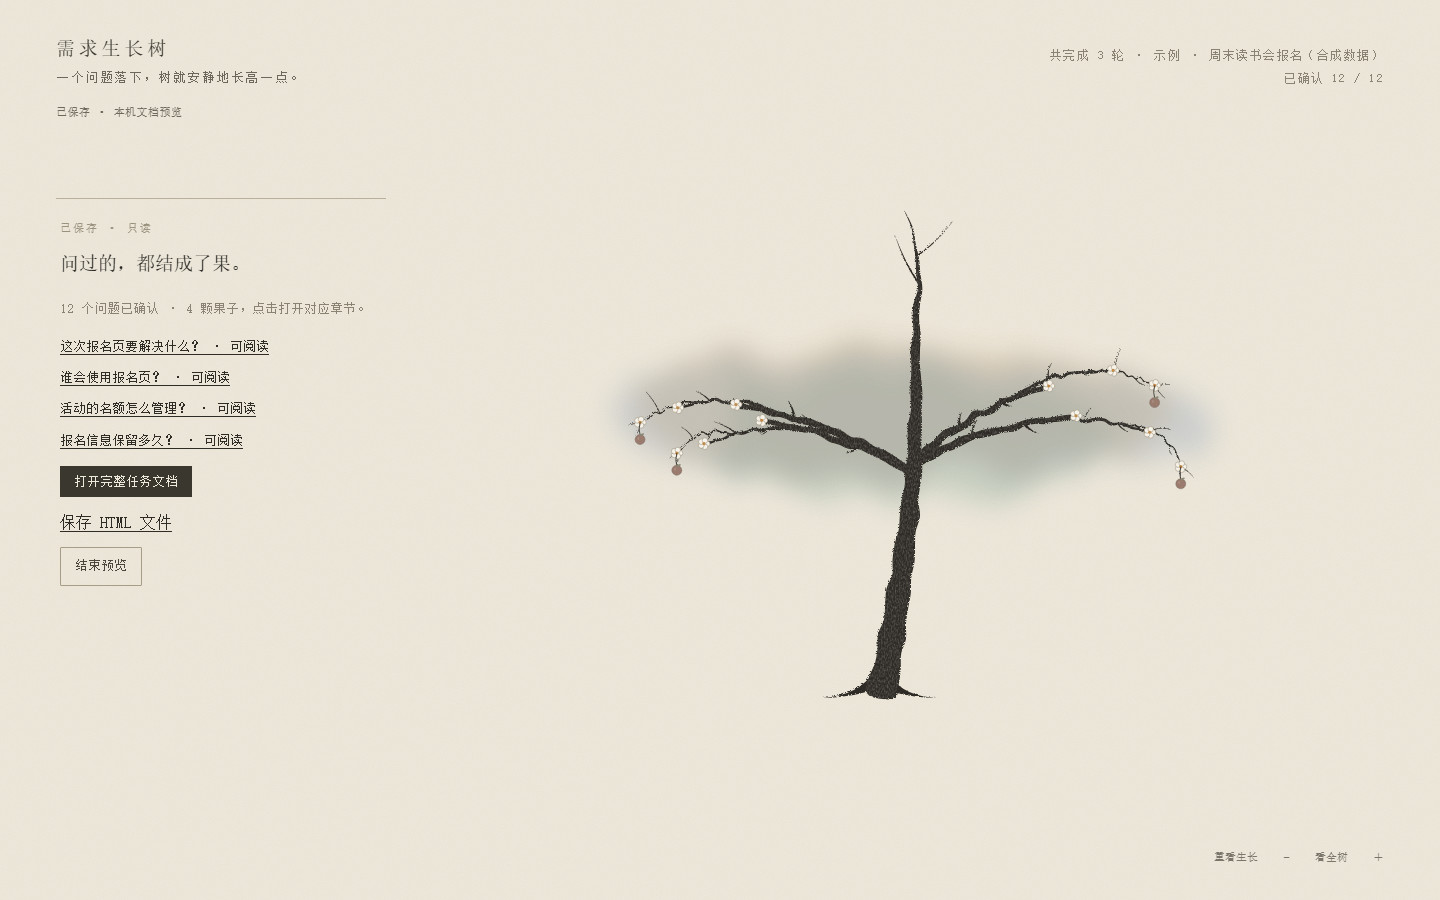
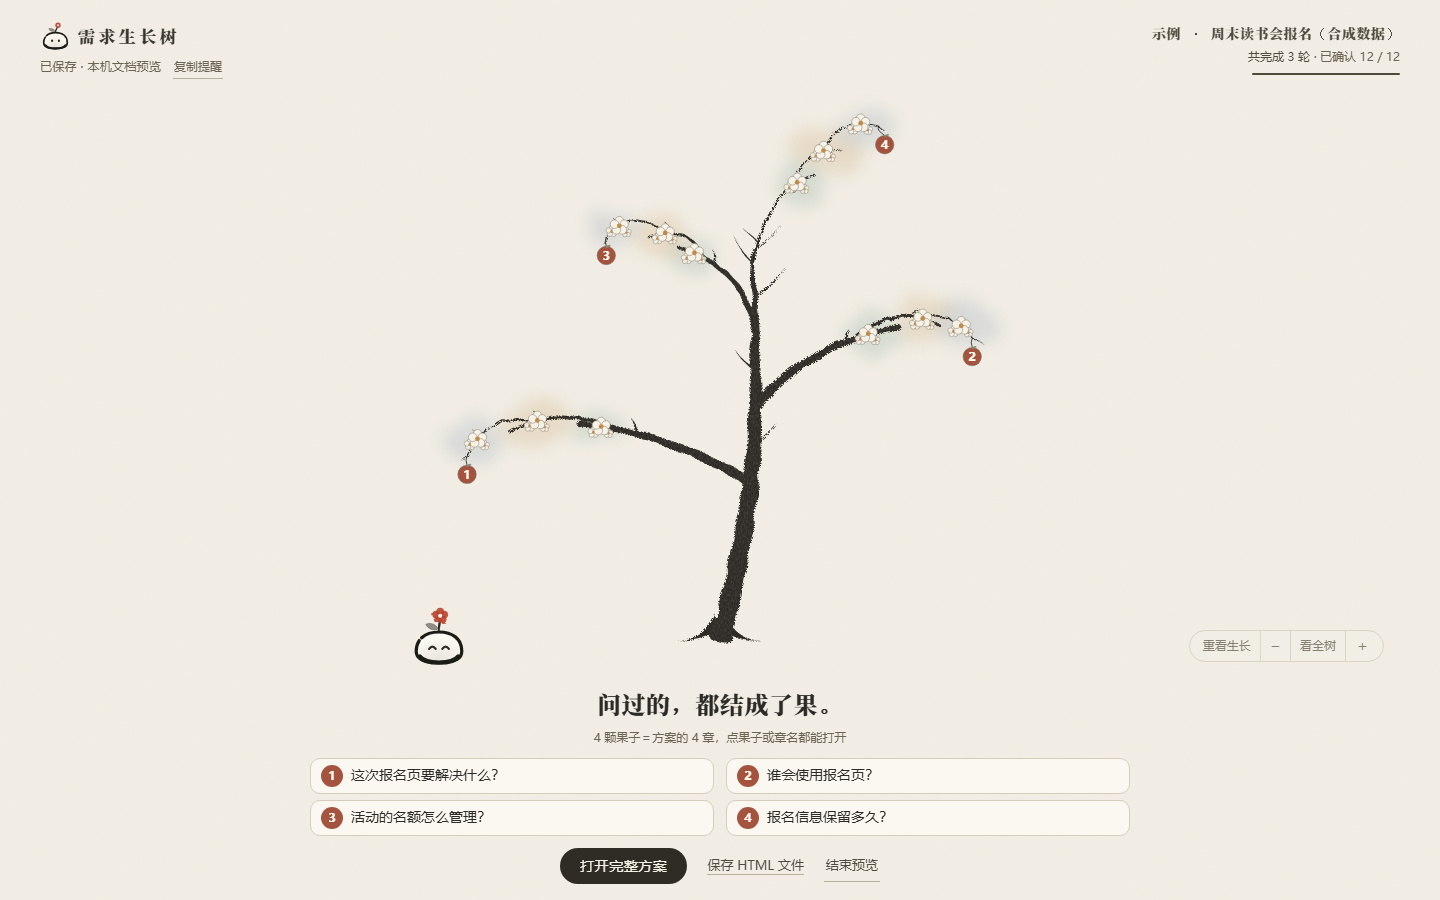
docs: release 0.3.0 and rewrite the README for the new interface
The README still described the v0.2 page: the question at the top, two
seal clicks per round, drafts lost on refresh, a "pause" banner, and only
Codex as tested. It now walks through the mascot asking beside each bud,
one-tap answers with a reply, the note box, deferral, "没看懂", the
five-second basket delivery, "够了", and the sleeping mascot that copies a
resume reminder. It explains what saving produces, including the readable
plan page and the grow-loop handoff manifest with its approval gate for
irreversible actions, states which assistants the simulated user has run
on and that the new interface has not yet been rerun on them, and shows
how to run the browser tests and the simulated user. Both screenshots come
from synthetic data. A stray paragraph after the license is gone.

diff --git a/README.md b/README.md
@@ -1,62 +1,54 @@
 # grow-me · 让需求长成方案
 
-把逐轮澄清搬到本机网页：回答一题，树上开一朵花；追问沿着依赖长出枝条；修改上游答案，相关问题变成需要复核的黄叶；保存后，果子通向文档里的主题章节。
+把逐轮澄清搬到本机网页：小精灵「圆麻薯」停在一颗芽旁边问你一个问题，你答完，芽开成花，它接一句话；一轮答完，它提着篮子把答案送给 AI；追问沿着依赖长出新枝。保存后，每个话题结成一颗果子，点开就是方案里对应的一章。
 
-**V2 试用版 · v0.2.0-alpha.3 · MIT 开源。** 使用 v2 访谈协议。旧 v1 访谈在此版本中只读，继续答题请使用 [V1 试用版](https://github.com/Trunks820/grow-me/releases/tag/v0.1.0-alpha.1)；不会自动迁移。
+**v0.3.0 · MIT 开源。** 使用 v2 访谈协议，v0.2 答了一半的访谈可以直接接着答。旧 v1 访谈只读，继续答题请用 [V1 试用版](https://github.com/Trunks820/grow-me/releases/tag/v0.1.0-alpha.1)。
 
-[下载 V2 ZIP](https://github.com/Trunks820/grow-me/releases/download/v0.2.0-alpha.3/grow-me-v0.2.0-alpha.3.zip) · [版本说明](https://github.com/Trunks820/grow-me/releases/tag/v0.2.0-alpha.3) · [SHA-256 校验](https://github.com/Trunks820/grow-me/releases/download/v0.2.0-alpha.3/grow-me-v0.2.0-alpha.3.sha256)
+[下载 v0.3.0 ZIP](https://github.com/Trunks820/grow-me/archive/refs/tags/v0.3.0.zip) · [全部版本](https://github.com/Trunks820/grow-me/releases)
 
-界面与接口回归已通过，跨助手真实闭环和模型生成速度仍在验收中。欢迎带着真实需求试用并反馈等待时间。
-
-![需求生长树示例：合成读书会需求，非真实用户数据](docs/images/tree-preview.png)
+![圆麻薯停在芽旁提问：合成示例，非真实用户数据](docs/images/ask-preview.png)
 
 ## 怎么用
 
-运行 grow-me 只需 Node.js 22+，以及能读取 `SKILL.md`、运行终端和短查询的 AI 编码助手。下载 ZIP 后解压出 `grow-me` 目录即可；通过克隆安装时另需 Git。当前工作流在 Codex 中实测；其他助手需要具备相同能力，兼容性待验证。
+需要 Node.js 22+，以及一个能读取 `SKILL.md`、运行终端命令的 AI 编码助手。保存方案不再需要 Python。
 
 ### 跟 AI 一起梳理一个真实需求
 
-下载 ZIP 并解压，或通过 Git 克隆：
+下载 ZIP 解压，或者用 Git 克隆：
 
 ```sh
 git clone https://github.com/Trunks820/grow-me.git
 ```
 
-在 AI 助手里发送，把路径换成你的克隆位置：
+在 AI 助手里发送，把路径换成你的位置：
 
 ```text
 读取 /你的路径/grow-me/SKILL.md，使用 grow-me 帮我澄清下面的需求。
 启动本机网页让我逐题回答；收到整轮答案后继续追问。
-没有必要的新问题时进入保存阶段，保存后生成三视图 HTML。
+没有必要的新问题时进入保存阶段，保存后生成方案网页。
 
 需求：……
 ```
 
-如果助手支持 `.agents/skills` 自动发现，可以将仓库克隆到 `~/.agents/skills/grow-me`；如果没有自动发现，直接读取上面的文件即可。Windows PowerShell 可用：
+想让助手自动发现这个技能，就克隆到它的技能目录：
 
 ```powershell
+# 支持 .agents/skills 的助手（Codex 等），Windows PowerShell
 git clone https://github.com/Trunks820/grow-me.git "$env:USERPROFILE/.agents/skills/grow-me"
-```
 
-Claude Code 使用自己的全局技能目录 `~/.claude/skills/`。如果使用 CC，请改用下面的安装位置，然后在 CC 中输入 `/grow-me`：
-
-```powershell
-# Windows PowerShell
+# Claude Code，装好后在 CC 里输入 /grow-me
 git clone https://github.com/Trunks820/grow-me.git "$env:USERPROFILE/.claude/skills/grow-me"
 ```
 
-```sh
-# macOS / Linux
-git clone https://github.com/Trunks820/grow-me.git "$HOME/.claude/skills/grow-me"
-```
+macOS / Linux 把路径换成 `$HOME/.agents/skills/grow-me` 或 `$HOME/.claude/skills/grow-me`。已经装在 `.agents/skills/grow-me` 的，也可以从 `.claude/skills/grow-me` 建目录链接，两边共用一份。新技能没出现时，重开一次会话。
 
-已经安装到 `.agents/skills/grow-me` 时，也可以从 `.claude/skills/grow-me` 建立目录链接，复用同一份技能；保留已有目录，不直接覆盖。如果当前 CC 会话还没显示新技能，重新打开会话再试。技能能被发现不代表已通过跨助手完整访谈验收。
+### AI 停了怎么办
 
-本机服务不自带模型、不需要在仓库配置模型 API Key。**当前 AI 对话负责出题和写文档，网页负责答题与展示。** 让原对话保持运行；对话中断后，点击网页「复制提醒」并粘回原对话；只含会话编号、轮次和服务地址。服务退出但 tree.json 仍在时，助手按原文件重启，不重新开访谈。答案会交给所用 AI 助手处理，本机服务本身不调用外部模型。
+本机服务不带模型、不需要 API Key：**AI 对话负责出题和写方案，网页负责答题和展示。** 你的答案只交给你正在用的 AI 助手。
 
-如果 AI 那边停了，回聊天窗口发一句「继续」即可续上，已保存的答案不会丢；页面在等待 AI 时会提示你使用「复制提醒」。
-
-已安装 `project-requirement-writer` 时可沿用它；没有安装也可使用仓库内置的 [writer 指引](references/writer-guide.md)、HTML 模板与校验工具，完成同样的三视图交付。
+- 能在后台等待的助手（如 Claude Code）会用等待命令：你一提交，它就被叫醒。做不到的助手每约 10 秒查一次。
+- AI 出题、写方案期间，页面靠心跳和工作记录判断它还在，不会误报暂停。
+- 真停了，圆麻薯会睡着、冒 zzz。点它会复制一段续接提醒，粘回原来的聊天窗口，喊一声"继续"就能接上。答过的题都存在 `tree.json` 里，不会丢。
 
 ### 先看看长什么样
 
@@ -65,77 +57,84 @@ cd grow-me
 npm run demo
 ```
 
-打开终端打印的本机网址。此命令只展示**合成的读书会需求**：可以回放生长、回看花朵、点击四颗果子打开对应章节；不会调用 AI，也不代表真实模型的回答或生成耗时。点「结束预览」或在终端按 Ctrl+C 退出。若系统开启「减少动态效果」，生长、果子和回放会直接显示最终形态。
+打开终端打印的本机网址。这是一份**合成的读书会需求**，只读：可以重看生长、点花回看、点果子打开对应章节。不调用 AI，也不代表真实模型的速度。点「结束预览」或按 Ctrl+C 退出。不用先 `npm install`。
 
-生产服务没有 npm 运行时依赖，无需先执行 `npm install`。完整访谈请通过 `SKILL.md` 启动，demo 仅用于预览。
+![保存后：每个话题结成一颗编号果子，对应方案的一章（合成示例）](docs/images/tree-preview.png)
 
-## 已实现
+## 答题时能做什么
 
-- 点可见花苞答题：题干在顶部，短选项在花旁气泡，长内容使用下方宣纸条。点「就这么定」原地开花；再点花默认只读，点「改」才编辑。
-- 逐题确认仍是本地草稿，整轮汇总后手动提交；未提交草稿刷新会丢失，离开前会提醒。
-- `tree.json` 是唯一访谈数据源，所有写操作保留 revision 冲突检测。
-- 依赖追问从父枝曲线长出；同一份数据生成相同树形。
-- 修改答案后，所有下游依赖进入黄叶复核，逐题确认。
-- 等待时显示秒数；AI 查询正常时超过 60 秒提示可回看，超过 60 秒没有 AI 短查询就提示回聊天续接并高亮「复制提醒」。持续心跳不会压住提示；从未短查显示等待连接，服务断线自动重连。
-- 每条根话题对应一颗果子；章节完成并通过来源校验后即可先读，其余章节标记「生成中」。
-- 每章写完立即发布，再写下一章；记录每章首次发布时间，批量发布多章会明确警告。
-- 保存前先预读 writer 规则与模板；新题标明所属章节，旧数据缺该字段仍可组装，正文依据用户保存后冻结的答案生成。
-- 文档包含「设计方案／开发清单／验收标准」三个视图，最终保存后访谈只读，文档失败可重试。
-- 桌面与窄屏布局、键盘操作、生长回放和减少动态效果支持。
+- **点一下就定**：单选点选项即确认，芽开花、麻薯接一句话（台词由 AI 出题时预写，没写就用备用句），然后去下一题。多选和填空点「好了」。
+- **补一句**：每题下面直接有输入框，想补充就写，不写也行。补充往往比选项更能改变方案。
+- **先待定**：拿不准就选「先待定，以后再说」。这题算交了，AI 不会追问，方案里会列进"还没定的"，不会写成你已确认。
+- **没看懂**：点「没看懂，换个说法」，可以写一句哪里没懂。AI 下一轮必须换个说法重问，不能原样再问。
+- **送答案**：一轮最后一题定下，麻薯提着篮子出发，5 秒后自动交给 AI。这 5 秒里点「等等，我再看看」就能回去改。
+- **够了，先出方案**：随时可以喊停。麻薯会先确认一句，没答的题记成待定。
+- **改上游答案**：受影响的下游题变成黄叶，逐题复核。
+- **刷新不丢**：点过的草稿存在这台电脑的浏览器里，刷新后恢复。
 
-- V2 支持多选与互斥「都不需要」，「为什么问这句」、推荐和可选补充默认收起；推荐有理由、从不预选，旧依据失效后隐藏。
-- 助手使用自动游标和约 10 秒一次的短查询，耗时工作独立发心跳，单次短查询网络期限最多 3 秒；端口与会话身份、revision 一起核对。
+手机上题目从底部拉起一张卡片。系统开启「减少动态效果」时，生长、飞行和开花都直接显示结果。
+
+## 保存后得到什么
+
+- **方案网页**：开头三个框写清现在到哪了、下一步、还有几件没定；然后是"这一版做什么"、按编号排好的开发清单、一张验收表。访谈原话收在每章末尾，编号和会话信息收在页底"记录信息"里。章节写完一章发布一章，先写完的果子先能点开。
+- **交接清单 `task.manifest.json`**：放在方案旁边，全文校验通过才写出，格式就是 [grow-loop](https://github.com/Trunks820/grow-loop) 的清单。每个开发项一个包，带依赖、验收标准和开工前要问你的问题（待定、没看懂的题）；写了"撤不回的动作"的包（比如写线上数据库、发通知、付费调用），grow-loop 开工前会停下来等你批准。改动大小留给 grow-loop 开工前估。
 
 ## 当前边界
 
-- 服务只监听 `127.0.0.1`，朋友需要在自己的电脑运行；这不是托管网站。
-- 实际出题和文档生成耗时取决于 AI 助手与需求内容。分片组装、模板复用和摘要输入已经提供，真实提速尚未完成对比验收。
-- Playwright 仅用于浏览器开发测试。
-- 原始访谈、用户答案、聊天记录、本机运行日志与私人技能配置均不在仓库内。提交 Issue 或截图前，请自行去掉个人回答。
+- 服务只监听 `127.0.0.1`，朋友要在自己电脑上运行，不是托管网站。
+- 出题和写方案的快慢取决于 AI 助手和需求本身。
+- 保存后不能再补答，方案也不能嵌进侧边面板；这两件留给以后的版本。
+- 原始访谈、答案、聊天记录、本机日志都不在仓库里。提 Issue 或贴截图前，请去掉个人回答。
 
-## 帮忙试用时，记这四类时间
+## 验证情况
+
+- 自动测试：Node 测试和全部浏览器测试通过。
+- 自带「模拟用户」（`tests/sim_user.py`）：会在真浏览器里替你答题，让被测的 AI 照常出题、写方案，跑完给打分报告。v0.3 前半段已用它在 Codex、Antigravity（Windows）和 Grok Bot、Muse Spark、dot（Linux）上跑通完整访谈，DeepSeek Harness 第 4 次跑通。
+- 新界面（圆麻薯、送答案、没看懂、新版方案）已通过浏览器测试和模拟用户；还没在各个 AI 工具里重跑，Cursor 也还没验。欢迎带着真实需求试用。
+
+### 帮忙试用时，记这四个时间
 
 | 指标 | 起点 | 终点 |
 | --- | --- | --- |
-| 发现提交延迟 | 服务成功提交 | 助手首次读取对应 revision（包含在每轮总耗时内） |
-| 每轮出题 | 点击「提交本轮」；黄叶场景从最后一题复核确认后单列 | 下一轮第一题可答 |
-| 首章可读 | 点击「保存并生成」 | 第一个果子能打开对应章节 |
-| 全文完成 | 同上 | 全部章节与三个视图生成、校验完成 |
+| 发现提交 | 答案交给 AI（篮子送出） | AI 读到这一轮答案 |
+| 每轮出题 | 答案交给 AI；黄叶场景从最后一题复核确认算起 | 下一轮第一题可以答 |
+| 首章可读 | 点「保存并生成」 | 第一颗果子能打开对应章节 |
+| 全文完成 | 同上 | 全部章节和三个视图生成、校验完成 |
 
-请附上题数、章节数、所用助手／模型与操作系统。首章可读时间指真正可以打开的章节；一个仍标着「生成中」的果子不算完成。不同规模需求的耗时不直接混为同一组对比。
+请附上题数、章节数、所用助手和模型、操作系统。还标着「生成中」的果子不算可读。
 
 [反馈 Bug 或试用结果](https://github.com/Trunks820/grow-me/issues)
 
 ## 开发与验证
 
-Python 只用于开发测试，包括浏览器测试和模拟用户。
+运行 grow-me 只要 Node。Python 只用于开发测试（浏览器测试和模拟用户）。
 
 ```sh
 npm test
 python -m pip install -r requirements-dev.txt
 python -m playwright install chromium
+# 浏览器测试：tests/ 下每个 *_browser.py，加上下面几个
 python tests/browser_acceptance.py --work outputs/qa/browser
-python tests/bud_note_browser.py --work outputs/qa/bud-note
-python tests/wait_flow_browser.py --work outputs/qa/waiting
 python tests/seeded_growth.py --work outputs/qa/seeded
-python tests/choices_browser.py --work outputs/qa/choices
 python tests/schema_acceptance.py
 ```
 
-Linux（包括启用 PEP 668 的 Debian/Ubuntu）先用 `python3 -m venv .venv` 创建虚拟环境，再执行 `. .venv/bin/activate`，在环境内运行上面的 `python` 命令。只需安装 Chromium。可选的 `--with-deps` 用于安装系统依赖，在 Debian/Ubuntu 上需要 root 权限和 apt。Chromium 下载失败时可以指定镜像，例如：
+每个 `*_browser.py` 都用同样的方式运行：`python tests/<名字>.py --work outputs/qa/<名字>`。
+
+拿一个真实 AI 工具自测：让它按上面的方式开一场访谈，同时运行
+
+```sh
+python tests/sim_user.py --auto --find <访谈目录> --report outputs/qa/sim-report.json
+```
+
+Linux（包括启用 PEP 668 的 Debian/Ubuntu）先 `python3 -m venv .venv` 再 `. .venv/bin/activate`，在虚拟环境里运行。只需要 Chromium；`--with-deps` 可选，要 root 和 apt。Chromium 下载失败可以换镜像：
 
 ```sh
 PLAYWRIGHT_DOWNLOAD_HOST=https://cdn.npmmirror.com/binaries/playwright python -m playwright install chromium
 ```
 
-Node 测试覆盖 v2 校验、v1 只读兼容、依赖复核、文档任务、确定性树形与 200 个布局种子；Chromium 测试覆盖答题、断线、长等待、章节跳转和 28 题布局。受控时钟与合成数据不算真实模型的性能测试。
-
-任务格式检查器移植自 ai-dev-workflow。维护时定期对照，并同步那边的格式规则变更。
-
-接口见 [数据与 HTTP 合约](references/contract.md)，文档分片见 [progressive writer](references/progressive-writer.md)。
+方案校验器（`scripts/validate-task.mjs`、`read-task.mjs`）最早移植自 ai-dev-workflow，现在两边独立维护，定期对照同步格式规则。接口见 [数据与 HTTP 合约](references/contract.md)，写方案的流程见 [progressive writer](references/progressive-writer.md)。
 
 ## License
 
 [MIT](LICENSE) · Copyright 2026 Trunks820
-
-恢复后的第一步先运行 `check.mjs`，再继续工作；普通 curl GET 不算活跃查询。若 AI 对话停了，回聊天窗口发“继续”或粘贴复制提醒，已提交答案不会丢。
